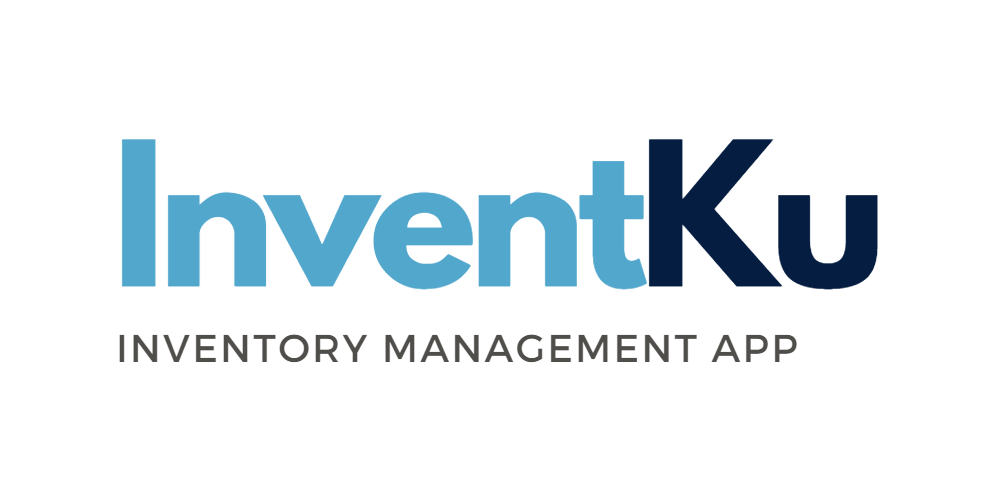
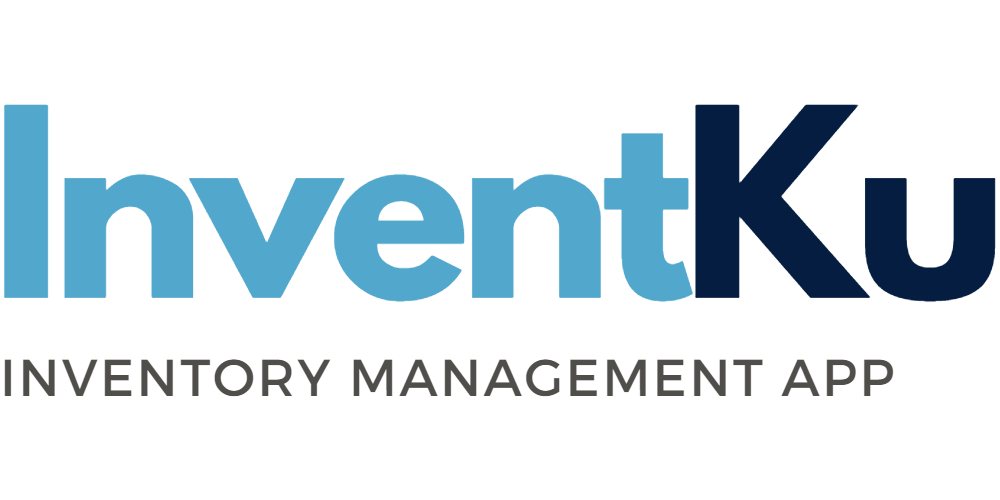
add feature: splash screen

Changed region(s): [[0.0, 0.21, 1.0, 0.6], [0.0, 0.66, 0.899, 0.81]]

diff --git a/lib/views/screen/splash/splash_screen.dart b/lib/views/screen/splash/splash_screen.dart
@@ -1,0 +1,55 @@
+import 'dart:async';
+
+import 'package:flutter/material.dart';
+import 'package:inventku/utils/const/app_colors.dart';
+import 'package:inventku/views/screen/login/login_screen.dart';
+
+class SplashScreen extends StatefulWidget {
+  const SplashScreen({super.key});
+
+  @override
+  State<SplashScreen> createState() => _SplashScreenState();
+}
+
+class _SplashScreenState extends State<SplashScreen> {
+  @override
+  void initState() {
+    super.initState();
+    Timer(
+      const Duration(seconds: 3),
+      () {
+        Navigator.push(
+            context,
+            PageRouteBuilder(
+              pageBuilder: (context, animation, secondaryAnimation) =>
+                  const LoginScreen(),
+              transitionsBuilder:
+                  (context, animation, secondaryAnimation, child) {
+                final tween = Tween(begin: 0.0, end: 1.0);
+                return FadeTransition(
+                  opacity: animation.drive(tween),
+                  child: child,
+                );
+              },
+            ));
+      },
+    );
+  }
+
+  @override
+  Widget build(BuildContext context) {
+    return Scaffold(
+      backgroundColor: AppColors.primaryBg,
+      body: SafeArea(
+          child: SizedBox(
+        width: double.infinity,
+        height: double.infinity,
+        child: Center(
+            child: Image.asset(
+          'assets/images/InventKu.png',
+          scale: 3,
+        )),
+      )),
+    );
+  }
+}

diff --git a/lib/views/screen/login/login_screen.dart b/lib/views/screen/login/login_screen.dart
@@ -56,7 +56,7 @@ class _LoginScreenState extends State<LoginScreen> {
   Widget build(BuildContext context) {
     return Scaffold(
       resizeToAvoidBottomInset: false,
-      backgroundColor: const Color.fromRGBO(239, 242, 247, 1),
+      backgroundColor: AppColors.primaryBg,
       body: Column(
           mainAxisAlignment: MainAxisAlignment.center,
           children: <Widget>[
@@ -66,10 +66,11 @@ class _LoginScreenState extends State<LoginScreen> {
               child: Column(
                 children: [
                   SizedBox(
-                      height: 100,
-                      width: 200,
+                      height: 150,
+                      width: 220,
                       child: Image.asset(
                         'assets/images/InventKu.png',
+                        scale: 1,
                       )),
                   Text(
                     'Hello Again!',

diff --git a/lib/main.dart b/lib/main.dart
@@ -1,7 +1,7 @@
 import 'package:flutter/material.dart';
 import 'package:inventku/views/screen/item/item_view_model.dart';
-import 'package:inventku/views/screen/login/login_screen.dart';
 import 'package:inventku/views/screen/navbar/navbar_view_model.dart';
+import 'package:inventku/views/screen/splash/splash_screen.dart';
 import 'package:provider/provider.dart';
 
 void main() {
@@ -26,7 +26,7 @@ class MyApp extends StatelessWidget {
       child: const MaterialApp(
         title: 'InventKu',
         debugShowCheckedModeBanner: false,
-        home: LoginScreen(),
+        home: SplashScreen(),
       ),
     );
   }

diff --git a/lib/utils/const/app_colors.dart b/lib/utils/const/app_colors.dart
@@ -3,7 +3,7 @@ import 'package:flutter/material.dart';
 class AppColors {
   static const primaryColor = Color(0xff52a7cc);
   static const secondaryColor = Color(0xff051D40);
-  static const primaryBg = Color(0xfff2f4f8);
+  static const primaryBg = Color.fromRGBO(239, 242, 247, 1);
   static const shadowColor = Color(0xffdee0e0);
   static const dangerButton = Colors.red;
   static const favButton = Colors.blueAccent;
